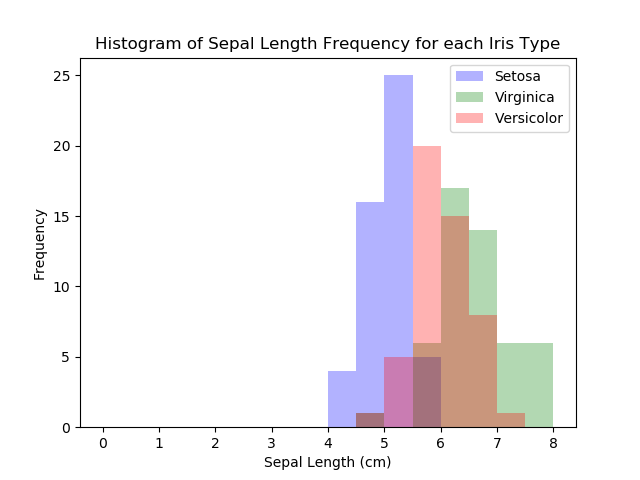
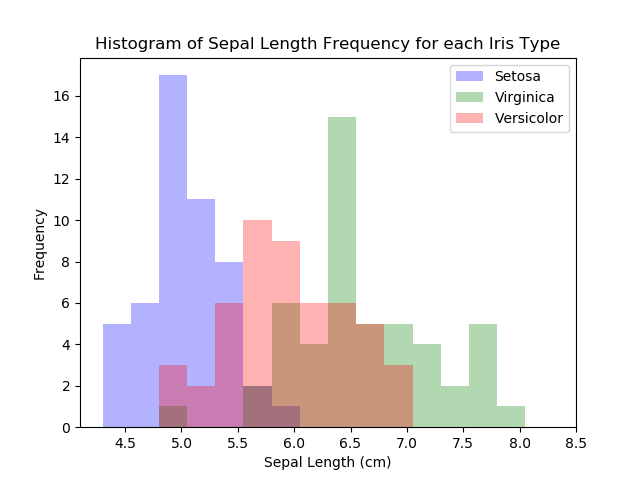
Histogram bins are now more dynamic so that they'll scale depending on the minimum and maximum values in that column.

diff --git a/irisAnalysis.py b/irisAnalysis.py
@@ -114,9 +114,9 @@ iris_virginica=df.loc["Iris-virginica"]
 iris_versicolor=df.loc["Iris-versicolor"]
 
 for measurement in df.columns:
-    low = df[measurement].min()
-    upper = df[measurement].max
-    binsizes = [0, 0.5, 1, 1.5, 2, 2.5, 3, 3.5, 4, 4.5, 5, 5.5, 6, 6.5, 7, 7.5, 8]
+    lower = df[measurement].min()
+    upper = df[measurement].max()
+    binsizes = np.arange(lower, upper + 0.5, 0.25)
     fig, ax = plt.subplots()
     ax.hist(iris_setosa[measurement], color='b', label='Setosa', alpha =0.3, bins=binsizes)
     ax.hist(iris_virginica[measurement], color='g', label = 'Virginica', alpha = 0.3, bins = binsizes)
